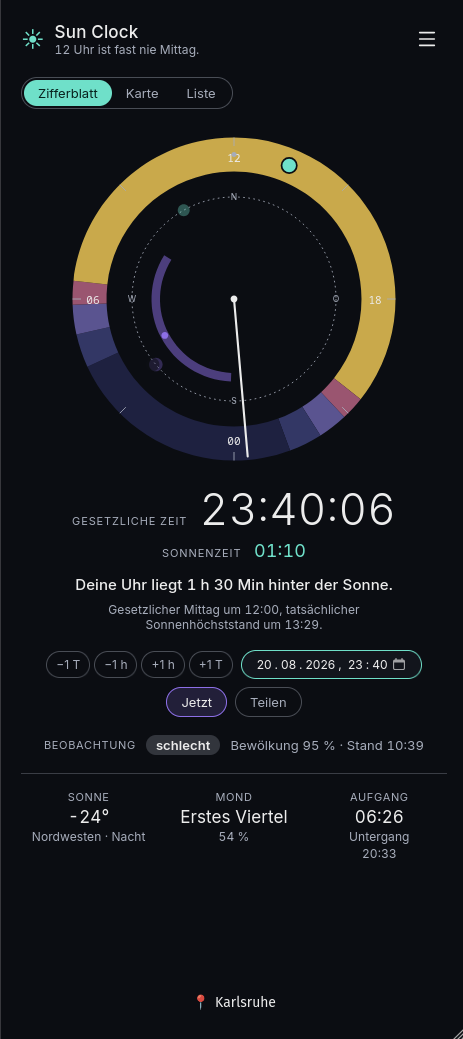
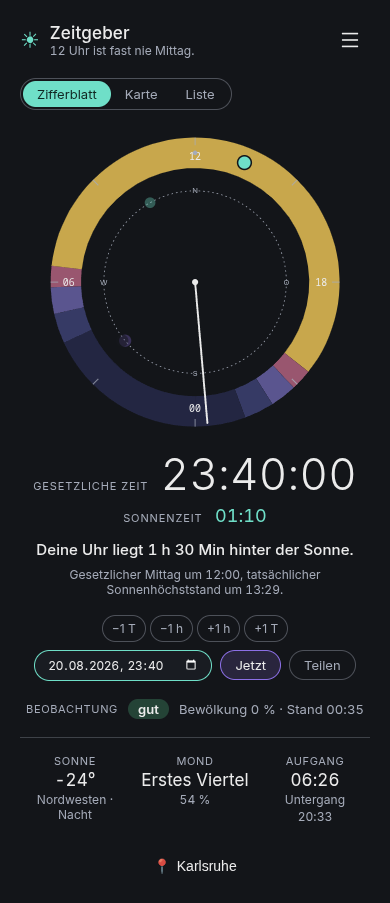
feat(layout): Zweispalten-Layout im Breitbild statt Drawer-Seiten-Toggle, Cron-Secret an Zeitgeber-Namen angepasst

diff --git a/src/main.ts b/src/main.ts
@@ -120,33 +120,35 @@ function setDialOverlay(id: OverlayId | null): void {
   rerender();
 }
 
-// Auf welcher Seite der Drawer im Breitbild-Layout sitzt (§11). Persistiert,
-// Default rechts — so, wie es vor dem Breitbild-Layout war.
-type DrawerSide = 'left' | 'right';
-const DRAWER_SIDE_KEY = 'zeitgeber.drawerSide';
+// Layout im Breitbild (ab 900px): gestapelt (wie mobil, nur zentriert) oder
+// zweispaltig (Zifferblatt links, Infos rechts). Persistiert, Default gestapelt
+// — so, wie es bisher immer war.
+type DesktopLayout = 'stacked' | 'columns';
+const DESKTOP_LAYOUT_KEY = 'zeitgeber.desktopLayout';
 
-const loadDrawerSide = (): DrawerSide => {
+const loadDesktopLayout = (): DesktopLayout => {
   try {
-    return localStorage.getItem(DRAWER_SIDE_KEY) === 'left' ? 'left' : 'right';
+    return localStorage.getItem(DESKTOP_LAYOUT_KEY) === 'columns' ? 'columns' : 'stacked';
   } catch {
-    return 'right';
+    return 'stacked';
   }
 };
 
-let drawerSide: DrawerSide = loadDrawerSide();
+let desktopLayout: DesktopLayout = loadDesktopLayout();
 
-function applyDrawerSide(): void {
-  document.documentElement.dataset.drawerSide = drawerSide;
+function applyDesktopLayout(): void {
+  document.documentElement.dataset.desktopLayout = desktopLayout;
+  $('#layout-toggle').classList.toggle('is-on', desktopLayout === 'columns');
 }
 
-function toggleDrawerSide(): void {
-  drawerSide = drawerSide === 'right' ? 'left' : 'right';
+function toggleDesktopLayout(): void {
+  desktopLayout = desktopLayout === 'stacked' ? 'columns' : 'stacked';
   try {
-    localStorage.setItem(DRAWER_SIDE_KEY, drawerSide);
+    localStorage.setItem(DESKTOP_LAYOUT_KEY, desktopLayout);
   } catch {
-    /* Seitenwahl ist Komfort, kein Zustand, ohne den die Uhr scheitert. */
+    /* Layout-Wahl ist Komfort, kein Zustand, ohne den die Uhr scheitert. */
   }
-  applyDrawerSide();
+  applyDesktopLayout();
 }
 
 // --- Formatierung -----------------------------------------------------------
@@ -223,7 +225,7 @@ app.innerHTML = `
       </div>
       <div class="topbar__actions">
         <button class="iconbtn iconbtn--warn" id="warn-badge" aria-label="Warnungen" hidden>${icon('triangle-alert')}</button>
-        <button class="iconbtn iconbtn--side" id="drawer-side" aria-label="Menüseite wechseln">${icon('panel-left')}</button>
+        <button class="iconbtn iconbtn--side" id="layout-toggle" aria-label="Desktop-Layout wechseln">${icon('columns-2')}</button>
         <button class="iconbtn" id="burger" aria-label="Menü" aria-haspopup="dialog" aria-expanded="false">${icon('menu')}</button>
       </div>
     </header>
@@ -255,55 +257,57 @@ app.innerHTML = `
       </section>
     </main>
 
-    <div class="timebar">
-      <div class="stepper">
-        <button class="chip chip--sm" id="t-day-back" data-i18n="time.dayBack"></button>
-        <button class="chip chip--sm" id="t-hr-back" data-i18n="time.hourBack"></button>
-        <button class="chip chip--sm" id="t-hr-fwd" data-i18n="time.hourFwd"></button>
-        <button class="chip chip--sm" id="t-day-fwd" data-i18n="time.dayFwd"></button>
+    <div class="info-col">
+      <div class="timebar">
+        <div class="stepper">
+          <button class="chip chip--sm" id="t-day-back" data-i18n="time.dayBack"></button>
+          <button class="chip chip--sm" id="t-hr-back" data-i18n="time.hourBack"></button>
+          <button class="chip chip--sm" id="t-hr-fwd" data-i18n="time.hourFwd"></button>
+          <button class="chip chip--sm" id="t-day-fwd" data-i18n="time.dayFwd"></button>
+        </div>
+        <input class="t-input" id="t-input" type="datetime-local" aria-label="Zeitpunkt" />
+        <button class="chip" id="t-now" data-i18n="time.now"></button>
+        <button class="chip" id="t-share" data-i18n="share.button"></button>
       </div>
-      <input class="t-input" id="t-input" type="datetime-local" aria-label="Zeitpunkt" />
-      <button class="chip" id="t-now" data-i18n="time.now"></button>
-      <button class="chip" id="t-share" data-i18n="share.button"></button>
+
+      <div class="weather" id="weather" hidden>
+        <span class="weather__k" data-i18n="weather.title"></span>
+        <span class="weather__badge" id="weather-badge">–</span>
+        <span class="weather__sub" id="weather-sub"></span>
+      </div>
+
+      <section class="sky">
+        <div class="sky__cell">
+          <span class="sky__k" data-i18n="object.sun"></span>
+          <span class="sky__v" id="sun-elev">–</span>
+          <span class="sky__sub" id="sun-dir">–</span>
+        </div>
+        <div class="sky__cell">
+          <span class="sky__k" data-i18n="object.moon"></span>
+          <span class="sky__v" id="moon-phase">–</span>
+          <span class="sky__sub" id="moon-illum">–</span>
+        </div>
+        <div class="sky__cell">
+          <span class="sky__k" data-i18n="dial.sunrise"></span>
+          <span class="sky__v" id="sunrise">–</span>
+          <span class="sky__sub" data-i18n="dial.sunset"></span>
+          <span class="sky__sub" id="sunset">–</span>
+        </div>
+      </section>
+
+      <footer class="locbar">
+        <button class="loc" id="loc-btn">
+          <span class="loc__pin">📍</span>
+          <span id="loc-label">–</span>
+        </button>
+        <p class="loc__hint" id="loc-hint" hidden></p>
+        <form class="loc-search" id="loc-search" hidden>
+          <input id="loc-input" type="text" autocomplete="off" />
+          <button class="btn btn--primary" type="submit" data-i18n="loc.manual"></button>
+        </form>
+        <p class="loc__msg" id="loc-msg" hidden></p>
+      </footer>
     </div>
-
-    <div class="weather" id="weather" hidden>
-      <span class="weather__k" data-i18n="weather.title"></span>
-      <span class="weather__badge" id="weather-badge">–</span>
-      <span class="weather__sub" id="weather-sub"></span>
-    </div>
-
-    <section class="sky">
-      <div class="sky__cell">
-        <span class="sky__k" data-i18n="object.sun"></span>
-        <span class="sky__v" id="sun-elev">–</span>
-        <span class="sky__sub" id="sun-dir">–</span>
-      </div>
-      <div class="sky__cell">
-        <span class="sky__k" data-i18n="object.moon"></span>
-        <span class="sky__v" id="moon-phase">–</span>
-        <span class="sky__sub" id="moon-illum">–</span>
-      </div>
-      <div class="sky__cell">
-        <span class="sky__k" data-i18n="dial.sunrise"></span>
-        <span class="sky__v" id="sunrise">–</span>
-        <span class="sky__sub" data-i18n="dial.sunset"></span>
-        <span class="sky__sub" id="sunset">–</span>
-      </div>
-    </section>
-
-    <footer class="locbar">
-      <button class="loc" id="loc-btn">
-        <span class="loc__pin">📍</span>
-        <span id="loc-label">–</span>
-      </button>
-      <p class="loc__hint" id="loc-hint" hidden></p>
-      <form class="loc-search" id="loc-search" hidden>
-        <input id="loc-input" type="text" autocomplete="off" />
-        <button class="btn btn--primary" type="submit" data-i18n="loc.manual"></button>
-      </form>
-      <p class="loc__msg" id="loc-msg" hidden></p>
-    </footer>
   </div>
 
   <div class="drawer" id="drawer" hidden>
@@ -340,7 +344,7 @@ function applyStaticI18n(): void {
   });
   $('#burger').setAttribute('aria-label', t('menu.open'));
   $('#drawer-close').setAttribute('aria-label', t('menu.close'));
-  $('#drawer-side').setAttribute('aria-label', t('menu.side'));
+  $('#layout-toggle').setAttribute('aria-label', t('layout.toggle'));
   renderWarnBadge();
   const locInput = $('#loc-input') as HTMLInputElement;
   locInput.placeholder = t('loc.placeholder');
@@ -687,7 +691,7 @@ function wireEvents(): void {
   $('#burger').addEventListener('click', openDrawer);
   $('#drawer-close').addEventListener('click', closeDrawer);
   $('#drawer-scrim').addEventListener('click', closeDrawer);
-  $('#drawer-side').addEventListener('click', toggleDrawerSide);
+  $('#layout-toggle').addEventListener('click', toggleDesktopLayout);
   $('#warn-badge').addEventListener('click', () =>
     openCivilWarnings(civilWarnings, nearestKreis(location)?.name ?? null, lang, t),
   );
@@ -807,7 +811,7 @@ async function adoptGpsIfAllowed(): Promise<void> {
 }
 
 async function boot(): Promise<void> {
-  applyDrawerSide();
+  applyDesktopLayout();
   wall = new WallMode(app, () => applyStaticI18n());
   wireEvents();
   applyStaticI18n();

diff --git a/src/styles.css b/src/styles.css
@@ -158,10 +158,14 @@ body {
   stroke-width: 1.75;
 }
 
-/* Der Seiten-Toggle ergibt nur im Breitbild-Layout Sinn — schmal liegt der
-   Drawer ohnehin über der ganzen Seite. */
+/* Der Layout-Toggle ergibt nur im Breitbild-Layout Sinn — schmal ist ohnehin
+   nur das gestapelte Layout vorgesehen. */
 .iconbtn--side {
   display: none;
+}
+
+.iconbtn--side.is-on {
+  color: var(--accent);
 }
 
 /* Badge für aktive Zivilschutz-Warnungen — sticht bewusst farblich hervor. */
@@ -377,6 +381,13 @@ body {
   padding: 5px 9px;
   font-size: 12px;
   font-family: var(--font-mono);
+}
+
+/* Nur ein Gruppierungs-Rahmen fürs Zweispalten-Layout — im gestapelten
+   Layout (Default + Mobile) unsichtbar, Kinder verhalten sich wie direkte
+   Kinder von .frame. */
+.info-col {
+  display: contents;
 }
 
 /* Zeitreise-Leiste (§24) + Teilen (§33) */
@@ -1417,14 +1428,62 @@ body {
     display: inline-flex;
   }
 
-  /* DOM-Reihenfolge ist .frame, dann .drawer — row-reverse zieht den Drawer
-     nach links und schiebt den Inhalt nach rechts. */
-  :root[data-drawer-side='left'] #app {
-    flex-direction: row-reverse;
+  /* Zweispaltiges Desktop-Layout: Zifferblatt links, Infos (Zeitreise,
+     Wetter, Himmel, Standort) rechts, statt untereinander gestapelt. Beide
+     Spalten liegen in derselben Grid-Zeile (kein Verteilen der Reststrecke
+     über mehrere Zeilen), damit die kürzere Spalte nicht künstlich
+     auseinandergezogen wird. */
+  :root[data-desktop-layout='columns'] .frame {
+    max-width: 760px;
+    display: grid;
+    grid-template-columns: minmax(0, 340px) minmax(0, 1fr);
+    gap: 18px 32px;
+    grid-template-areas:
+      'topbar topbar'
+      'controls controls'
+      'stage info';
   }
 
-  :root[data-drawer-side='left'] .drawer__panel {
-    box-shadow: 18px 0 50px rgba(0, 0, 0, 0.28);
+  :root[data-desktop-layout='columns'] .topbar {
+    grid-area: topbar;
+  }
+
+  :root[data-desktop-layout='columns'] .controls {
+    grid-area: controls;
+  }
+
+  :root[data-desktop-layout='columns'] .stage {
+    grid-area: stage;
+    align-self: start;
+  }
+
+  /* Rechte Spalte linksbündig statt zentriert — nebeneinander mit
+     unterschiedlich breiten Zeilen sähe zentriert unruhig/zerfasert aus.
+     Engerer Abstand zwischen den Info-Blöcken statt der großen Lücken der
+     Einzelspalte. */
+  :root[data-desktop-layout='columns'] .info-col {
+    grid-area: info;
+    display: flex;
+    flex-direction: column;
+    gap: 14px;
+    align-self: center;
+  }
+
+  :root[data-desktop-layout='columns'] .timebar {
+    justify-content: flex-start;
+  }
+
+  :root[data-desktop-layout='columns'] .weather {
+    justify-content: flex-start;
+  }
+
+  :root[data-desktop-layout='columns'] .sky__cell {
+    text-align: left;
+  }
+
+  :root[data-desktop-layout='columns'] .locbar {
+    align-items: flex-start;
+    margin-top: 0;
   }
 }
 

diff --git a/src/icons.ts b/src/icons.ts
@@ -30,7 +30,7 @@ export type IconName =
   | 'bell'
   | 'info'
   | 'chevron-right'
-  | 'panel-left'
+  | 'columns-2'
   | 'triangle-alert';
 
 // Nur der innere Pfad-Inhalt je Icon (Quelle: lucide-static v1.31, ISC).
@@ -73,7 +73,7 @@ const PATHS: Record<IconName, string> = {
   bell: '<path d="M10.268 21a2 2 0 0 0 3.464 0"/><path d="M3.262 15.326A1 1 0 0 0 4 17h16a1 1 0 0 0 .74-1.673C19.41 13.956 18 12.499 18 8A6 6 0 0 0 6 8c0 4.499-1.411 5.956-2.738 7.326"/>',
   info: '<circle cx="12" cy="12" r="10"/><path d="M12 16v-4"/><path d="M12 8h.01"/>',
   'chevron-right': '<path d="m9 18 6-6-6-6"/>',
-  'panel-left': '<rect width="18" height="18" x="3" y="3" rx="2"/><path d="M9 3v18"/>',
+  'columns-2': '<rect width="18" height="18" x="3" y="3" rx="2"/><path d="M12 3v18"/>',
   'triangle-alert':
     '<path d="m21.73 18-8-14a2 2 0 0 0-3.48 0l-8 14A2 2 0 0 0 4 21h16a2 2 0 0 0 1.73-3Z"/><path d="M12 9v4"/><path d="M12 17h.01"/>',
 };

diff --git a/src/i18n/index.ts b/src/i18n/index.ts
@@ -220,7 +220,7 @@ const de: Dict = {
 
   'menu.open': 'Menü',
   'menu.close': 'Menü schließen',
-  'menu.side': 'Menüseite wechseln',
+  'layout.toggle': 'Desktop-Layout wechseln',
   'menu.title': 'Menü',
   'menu.layers': 'Am Himmel',
   'menu.modules': 'Module',
@@ -618,7 +618,7 @@ const en: Dict = {
 
   'menu.open': 'Menu',
   'menu.close': 'Close menu',
-  'menu.side': 'Switch menu side',
+  'layout.toggle': 'Switch desktop layout',
   'menu.title': 'Menu',
   'menu.layers': 'In the sky',
   'menu.modules': 'Modules',

diff --git a/README.md b/README.md
@@ -8,8 +8,8 @@ _12 Uhr ist fast nie Mittag._
 
 Open Source (MIT) · TypeScript strict · Web (PWA) + iOS/Android · offline · ohne Backend · DE/EN
 
-<img src="./docs/screenshot-dark.png" alt="Zeitgeber — Zifferblatt im Dark Mode, mit Dämmerungszonen, gesetzlicher Zeit und Sonnenzeit" width="280" />
-<img src="./docs/screenshot-light.png" alt="Zeitgeber — Zifferblatt im Light Mode, mit Dämmerungszonen, gesetzlicher Zeit und Sonnenzeit" width="280" />
+<img src="./docs/screenshot-dark.png" alt="Zeitgeber — Zifferblatt bei Nacht, mit Dämmerungszonen, gesetzlicher Zeit und Sonnenzeit" width="280" />
+<img src="./docs/screenshot-light.png" alt="Zeitgeber — Zifferblatt bei Tag, mit Dämmerungszonen, gesetzlicher Zeit und Sonnenzeit" width="280" />
 
 </div>
 

diff --git a/docs/PUSH_SETUP.md b/docs/PUSH_SETUP.md
@@ -56,7 +56,7 @@ Er muss regelmäßig (etwa alle 15 Minuten) angestoßen werden.
 Der Workflow `.github/workflows/push-cron.yml` liegt schon bereit. Setze zwei
 Repository-Secrets (Settings → Secrets and variables → Actions):
 
-- `SUNCLOCK_CRON_URL` = `https://<deine-domain>/api/cron`
+- `ZEITGEBER_CRON_URL` = `https://<deine-domain>/api/cron`
 - `CRON_SECRET` = derselbe Wert wie oben
 
 **Variante B – Vercel Cron** (braucht den Pro-Plan für Intervalle unter 1 Tag):
